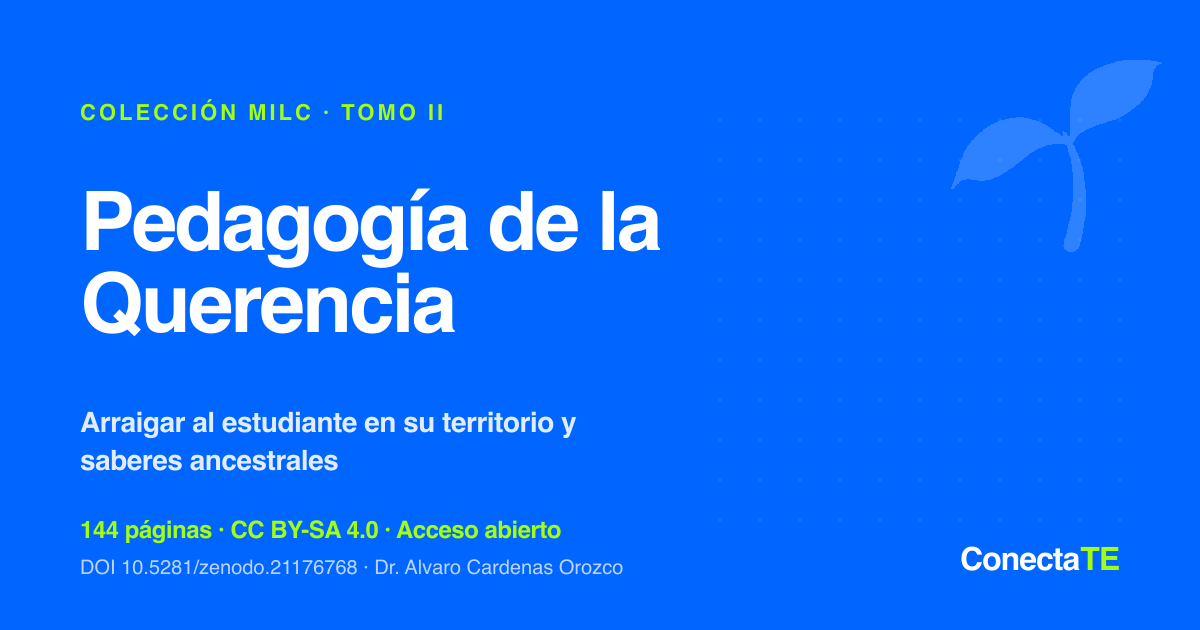
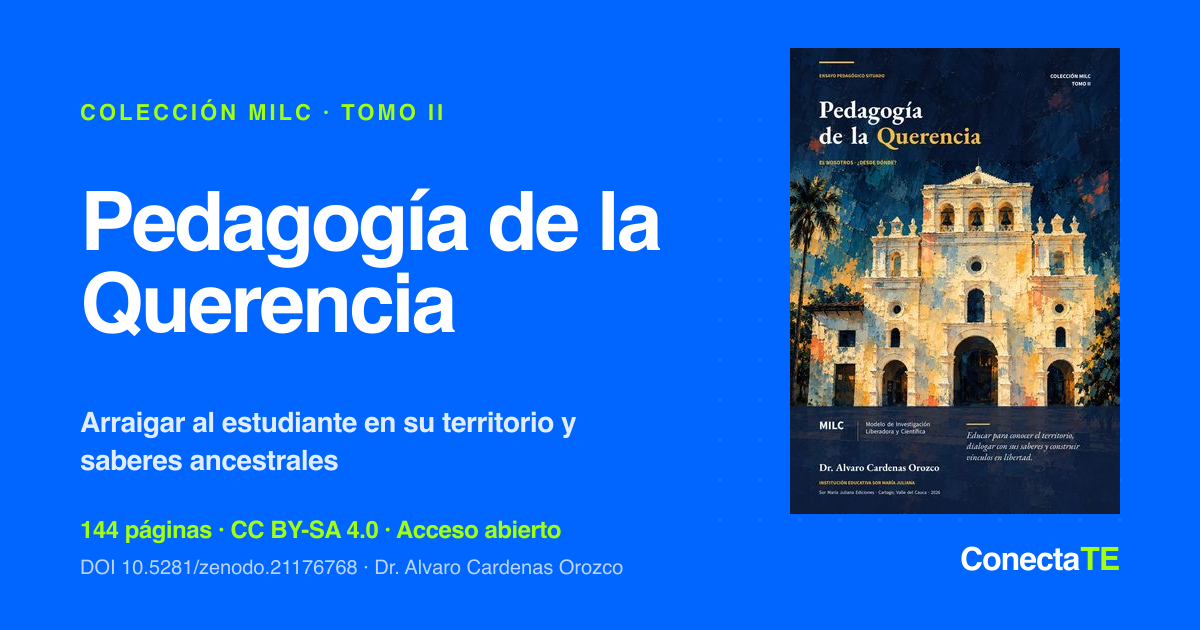
feat(og): la imagen para redes del Tomo II muestra su portada nueva (v2.4) (#318)
- generate-og.ts acepta una portada real por libro (campo opcional «portada»); si existe, reemplaza el emoji
- portada en scripts/og-portadas/libro-querencia.jpg
- Service Worker v97, porque cambia una imagen de public/ con el mismo nombre

Changed region(s): [[0.6475, 0.0603, 0.9867, 0.8143]]

diff --git a/scripts/generate-og.ts b/scripts/generate-og.ts
@@ -376,6 +376,8 @@ type LibroOg = {
   fg: string;
   accent: string;
   emoji: string;
+  /** Portada real del libro (scripts/og-portadas/<slug>.jpg). Si existe, reemplaza el emoji. */
+  portada?: string;
 };
 
 // Cada libro con el color de su card en la home (matriz=negro, Tomo I=morado, Tomo II=azul, Tomo III=naranja).
@@ -412,6 +414,7 @@ const LIBROS: LibroOg[] = [
     doi: '10.5281/zenodo.21176768',
     bg: '#0066FF', fg: '#FFFFFF', accent: '#A3FF12',
     emoji: '🌱',
+    portada: 'scripts/og-portadas/libro-querencia.jpg',
   },
   {
     slug: 'libro-el-nino-que-suena-ciencia',
@@ -476,10 +479,10 @@ function tplLibro(libro: LibroOg): string {
     <text x="80" y="120" fill="${libro.accent}" font-family="Helvetica, sans-serif" font-weight="700" font-size="22" letter-spacing="3">
       ${esc(libro.etiqueta)}
     </text>
-    <!-- Emoji decorativo -->
+    ${libro.portada ? '' : `<!-- Emoji decorativo -->
     <text x="${W - 80}" y="210" fill="${libro.fg}" opacity="0.18" font-family="Helvetica, sans-serif" font-size="170" text-anchor="end">
       ${libro.emoji}
-    </text>
+    </text>`}
     <!-- Título del libro -->
     ${titulo}
     <!-- Subtítulo -->
@@ -498,9 +501,17 @@ function tplLibro(libro: LibroOg): string {
 
 /* ────────────── Render + escritura ────────────── */
 
-async function svg2png(svg: string, outPath: string): Promise<void> {
+async function svg2png(svg: string, outPath: string, portada?: string): Promise<void> {
   mkdirSync(dirname(outPath), { recursive: true });
-  const buf = await sharp(Buffer.from(svg)).png({ compressionLevel: 9 }).toBuffer();
+  let img = sharp(Buffer.from(svg));
+  if (portada) {
+    // Portada real a la derecha: 330 × 466 px, sobre el área del emoji y sin tocar el wordmark.
+    const alto = 466;
+    const ancho = Math.round(alto * 0.708);
+    const tapa = await sharp(resolve(portada)).resize(ancho, alto, { fit: 'cover' }).toBuffer();
+    img = sharp(await img.png().toBuffer()).composite([{ input: tapa, left: W - 80 - ancho, top: 48 }]);
+  }
+  const buf = await img.png({ compressionLevel: 9 }).toBuffer();
   writeFileSync(outPath, buf);
 }
 
@@ -535,7 +546,7 @@ async function main(): Promise<void> {
 
   // Colección MILC · una portada dedicada por libro (obra citable)
   for (const libro of LIBROS) {
-    await svg2png(tplLibro(libro), `${OUT_DIR}/${libro.slug}.png`);
+    await svg2png(tplLibro(libro), `${OUT_DIR}/${libro.slug}.png`, libro.portada);
     count++;
   }
 

diff --git a/public/sw.js b/public/sw.js
@@ -32,7 +32,7 @@
  * ─────────────────────────────────────────────────────────────────────────
  */
 
-const VERSION = 'v96';
+const VERSION = 'v97';
 const BASE_PATH = '/plataformaconectate';
 
 const CACHE_SHELL = `conectate-shell-${VERSION}`;
